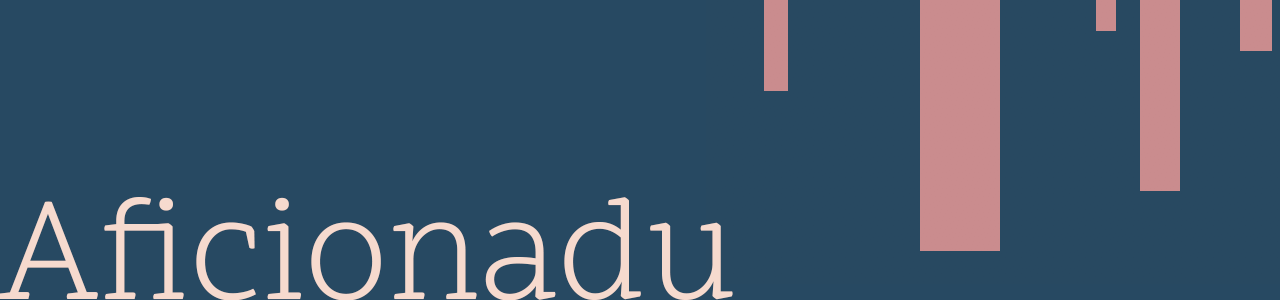
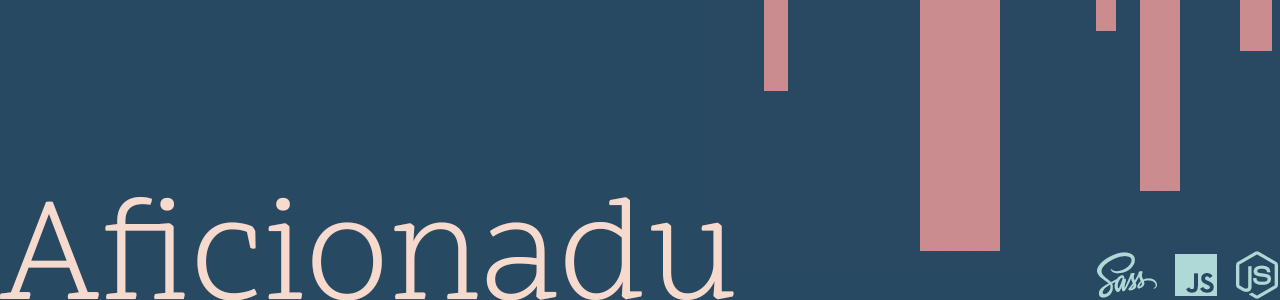
Updated readme

diff --git a/README.md b/README.md
@@ -173,3 +173,5 @@ There are a number of features I plan to add to Aficionadu, including:
 * Getting the badge system working.
 * A model with a carousel on the restaurant show pages, so users can view the photos clearly. This could also have the uploader's name, review, and timestamp.
 * Improved mobile responsiveness.
+
+![Footer](footer.png)
